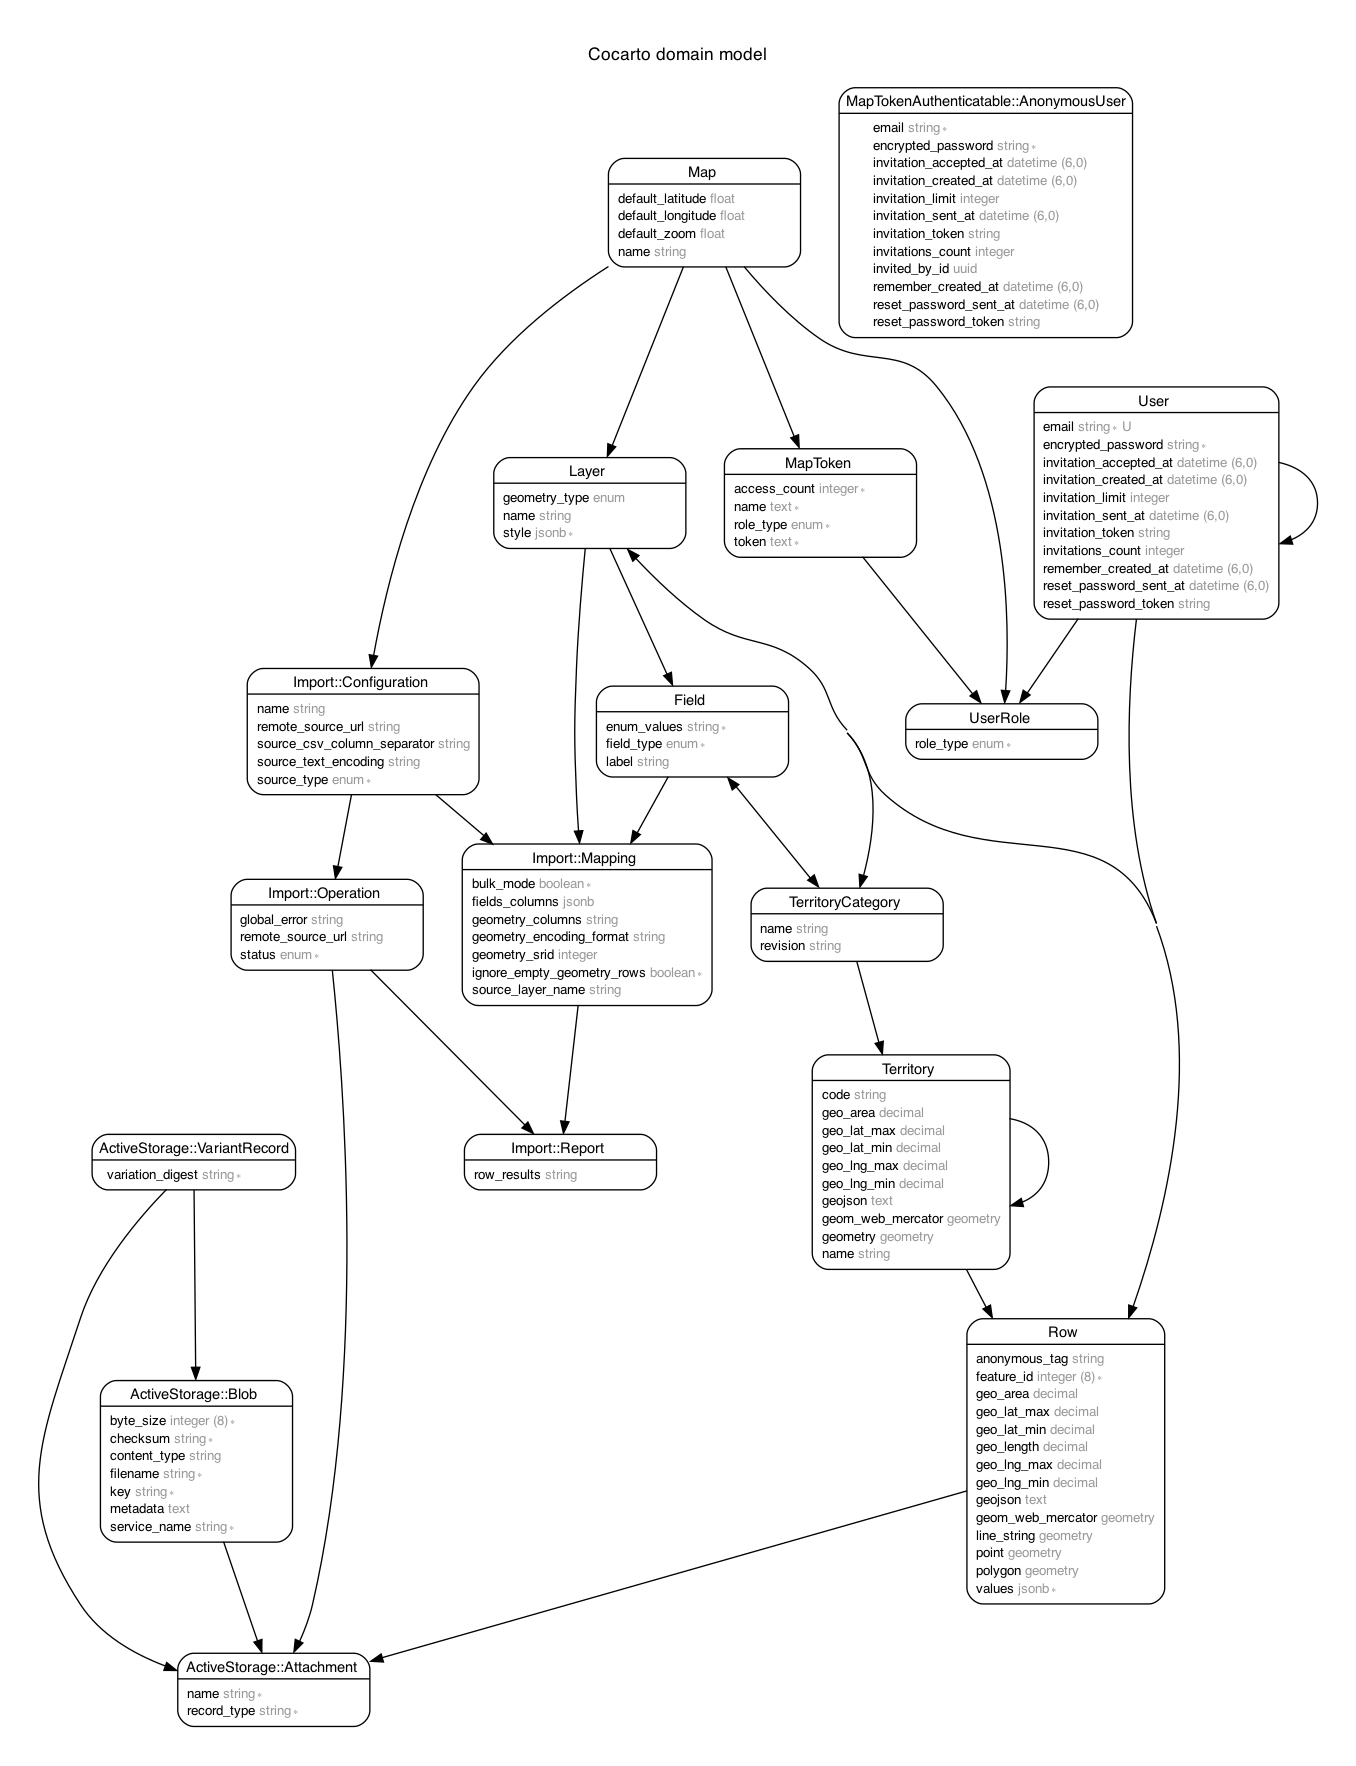
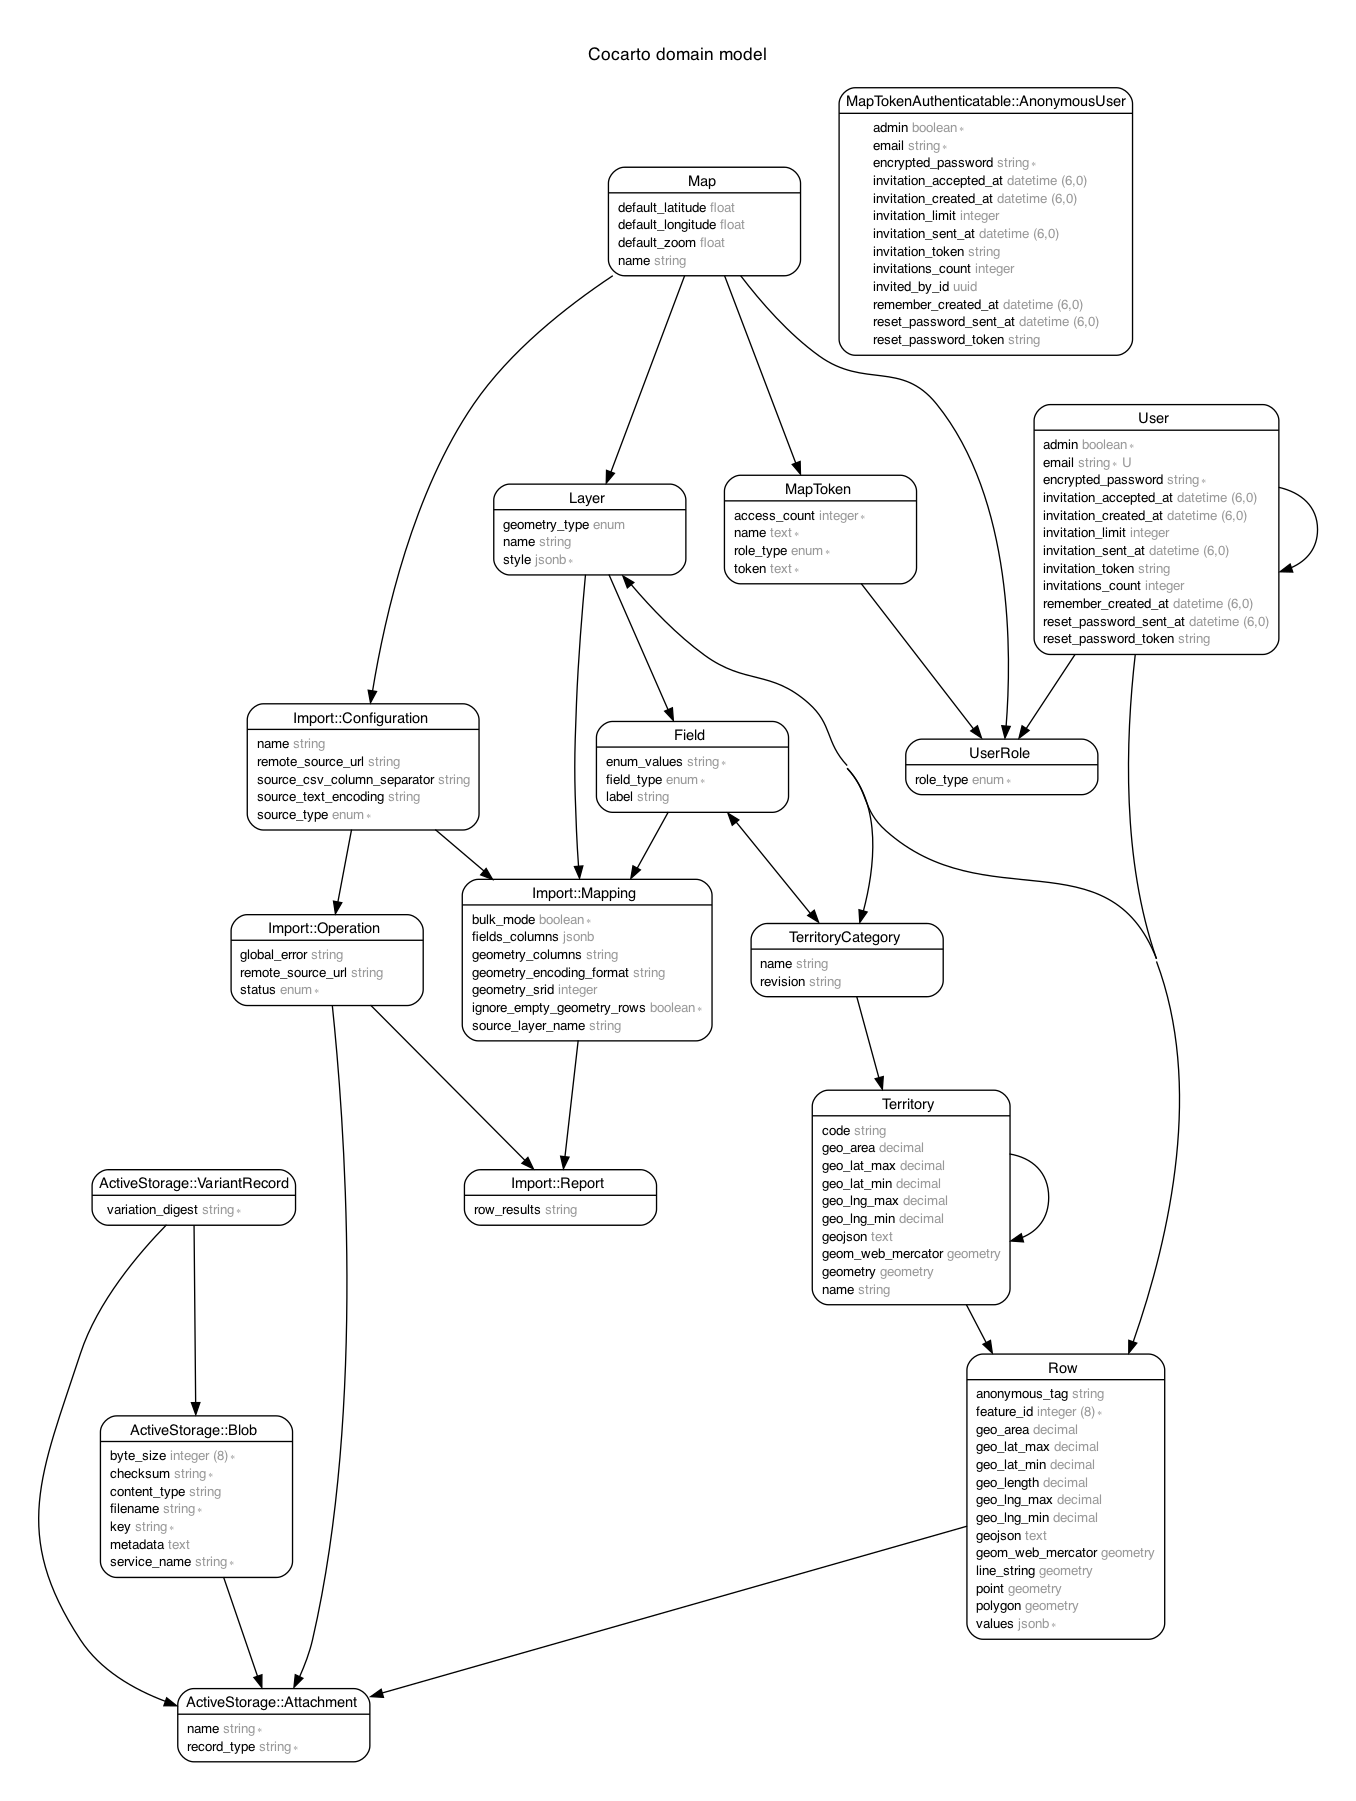
Add User#admin

diff --git a/db/schema.rb b/db/schema.rb
@@ -10,7 +10,7 @@
 #
 # It's strongly recommended that you check this file into your version control system.
 
-ActiveRecord::Schema[7.0].define(version: 2023_07_19_200118) do
+ActiveRecord::Schema[7.0].define(version: 2023_07_20_104934) do
   # These are extensions that must be enabled in order to support this database
   enable_extension "pg_trgm"
   enable_extension "pgcrypto"
@@ -356,6 +356,7 @@ ActiveRecord::Schema[7.0].define(version: 2023_07_19_200118) do
     t.integer "invitation_limit"
     t.uuid "invited_by_id"
     t.integer "invitations_count", default: 0
+    t.boolean "admin", default: false, null: false
     t.index ["email"], name: "index_users_on_email", unique: true
     t.index ["invitation_token"], name: "index_users_on_invitation_token", unique: true
     t.index ["invited_by_id"], name: "index_users_on_invited_by_id"

diff --git a/app/models/user.rb b/app/models/user.rb
@@ -3,6 +3,7 @@
 # Table name: users
 #
 #  id                     :uuid             not null, primary key
+#  admin                  :boolean          default(FALSE), not null
 #  email                  :string           not null
 #  encrypted_password     :string           default(""), not null
 #  invitation_accepted_at :datetime
@@ -47,6 +48,7 @@ class User < ApplicationRecord
 
   # Validation
   validates :email, presence: true
+  validates :admin, inclusion: [true, false]
 
   self.remember_for = 2.months
 

diff --git a/test/models/user_test.rb b/test/models/user_test.rb
@@ -3,6 +3,7 @@
 # Table name: users
 #
 #  id                     :uuid             not null, primary key
+#  admin                  :boolean          default(FALSE), not null
 #  email                  :string           not null
 #  encrypted_password     :string           default(""), not null
 #  invitation_accepted_at :datetime

diff --git a/db/migrate/20230720104934_add_user_admin.rb b/db/migrate/20230720104934_add_user_admin.rb
@@ -1,0 +1,5 @@
+class AddUserAdmin < ActiveRecord::Migration[7.0]
+  def change
+    add_column :users, :admin, :boolean, null: false, default: false
+  end
+end
